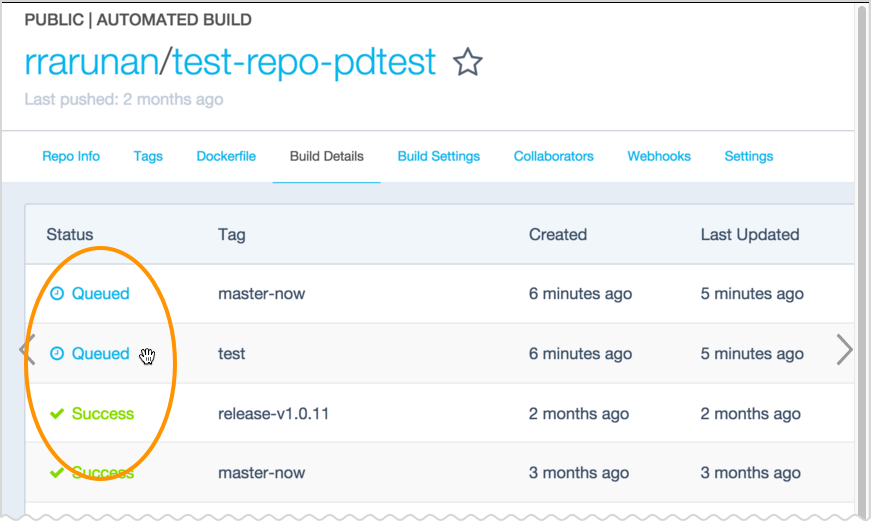
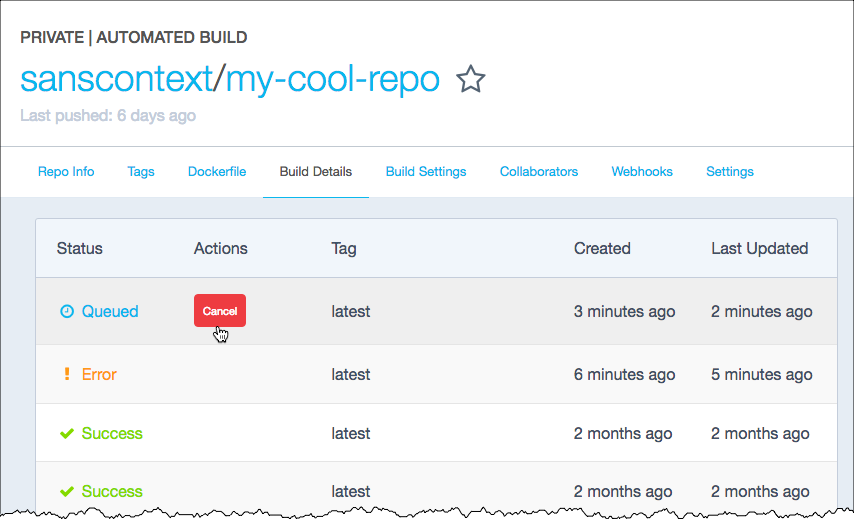
update to include cancel button

diff --git a/docker-hub/builds.md b/docker-hub/builds.md
@@ -26,14 +26,14 @@ on both [GitHub](http://github.com) and [Bitbucket](https://bitbucket.org/). Thi
 
 To use automated builds you must have an [account on Docker Hub](accounts.md) and on the hosted repository provider (GitHub or Bitbucket). If
 you have previously linked your Github or Bitbucket account, you must have
-chosen the Public and Private connection type. 
+chosen the Public and Private connection type.
 
 To view your current connection
 settings, log in to Docker Hub and choose **Profile > Settings > Linked Accounts & Services**.
 
 ## Limitations
 
-Currently Docker Hub does not support Git LFS (Large File Storage). If you have binaries in your build context that are managed by Git LFS, only the pointer file will be present in the clone made during the automated build, which is not what you want. 
+Currently Docker Hub does not support Git LFS (Large File Storage). If you have binaries in your build context that are managed by Git LFS, only the pointer file will be present in the clone made during the automated build, which is not what you want.
 
 Subscribe to the [GitHub issue](https://github.com/docker/hub-feedback/issues/500) tracking this limitation.
 
@@ -131,17 +131,16 @@ build request, Docker ignores new requests.
 
 ### Build statuses explained
 
-Check your build status through the Build Details screen as seen in the following example.
+You can view the status of the builds for a specific repository by looking at the Build Details screen. If you have builds that are queued or in progress, you can click **Cancel** to end them.
 
 ![Build statuses](images/build-states-ex.png)
 
 The statuses are:
 
 * **Queued**: You're in line and your image will be built soon. Queue time varies depending on number of concurrent builds available to you.
-* **Building**: Your image is currently being constructed.
+* **Building**: The image is being built.
 * **Success**: The image has been built with no issues.
-* **Error**: There was an issue with your image. Click the row to access the Builds Details screen. The banner at the top of the page displays the last sentence of the log file indicating what the error was. If you need more information, scroll to the bottom of the screen to the logs section.
-
+* **Error**: There was an issue with your image. Click the row to go to the Builds Details screen. The banner at the top of the page displays the last sentence of the log file, which indicates what the error was. If you need more information, scroll to the bottom of the screen to the logs section.
 
 ## Use the Build Settings page
 
